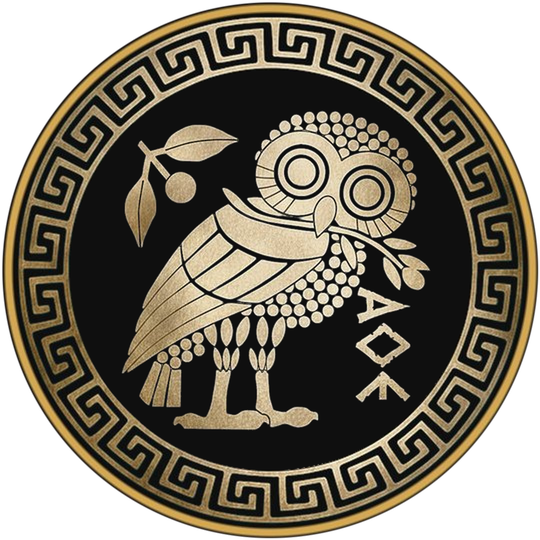
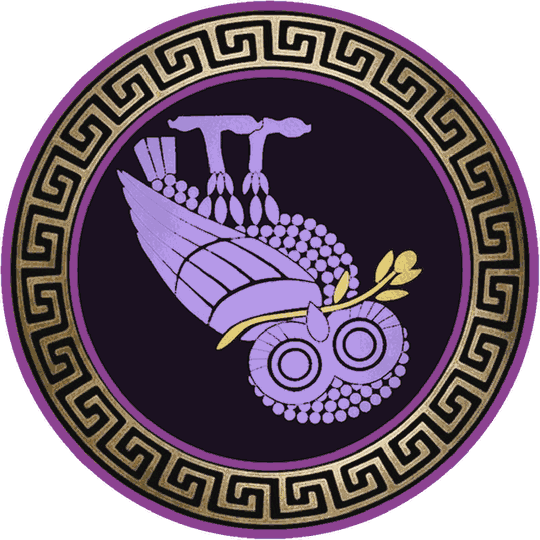
feat(signature): replace signature owl with Metacognitive Owl and point footer link to Intellectual Resistance: Dose 01

diff --git a/static/ithelp-logo-sig-research.html b/static/ithelp-logo-sig-research.html
@@ -25,8 +25,8 @@
                     <tbody>
                         <tr>
                             <td width="142" valign="middle" bgcolor="#111827" style="width:142px; padding:0; vertical-align:middle; background-color:#111827;">
-                                <a href="https://dnstool.it-help.tech" style="text-decoration:none; display:block;">
-                                    <img src="https://www.it-help.tech/images/owl-signature.png" width="130" height="130" alt="Owl of Athena" style="display:block; border:0; outline:0;" />
+                                <a href="https://intellectualresistance.com/dose/01" style="text-decoration:none; display:block;">
+                                    <img src="https://www.it-help.tech/images/owl-signature-meta.png" width="130" height="130" alt="Metacognitive Owl" style="display:block; border:0; outline:0;" />
                                 </a>
                             </td>
                             <td width="1" bgcolor="#3d3526" style="width:1px; background-color:rgba(200,168,120,0.25); font-size:0; line-height:0;">&nbsp;</td>
@@ -57,9 +57,7 @@
                                     <span style="color:#374151;">&nbsp;|&nbsp;</span>
                                     <a href="https://dnstool.it-help.tech" style="color:#c8a878; text-decoration:none;">DNS Tool</a>
                                     <span style="color:#374151;">&nbsp;|&nbsp;</span>
-                                    <a href="https://calibrationscope.com" style="color:#c8a878; text-decoration:none;">Calibration Scope</a>
-                                    <span style="color:#374151;">&nbsp;|&nbsp;</span>
-                                    <a href="https://intellectualresistance.com" style="color:#c8a878; text-decoration:none;">Intellectual Resistance</a>
+                                    <a href="https://intellectualresistance.com/dose/01" style="color:#c8a878; text-decoration:none;">Intellectual Resistance: Dose 01</a>
                                 </div>
                             </td>
                         </tr>

diff --git a/content/signature.md b/content/signature.md
@@ -25,7 +25,7 @@ toc = false
 <tbody>
 <tr>
 <td width="142" valign="middle" class="sig-avatar-cell">
-<a href="https://dnstool.it-help.tech" class="sig-avatar-link"><img src="/images/owl-signature.png" width="130" height="130" alt="Owl of Athena" class="sig-avatar-img" /></a>
+<a href="https://intellectualresistance.com/dose/01" class="sig-avatar-link"><img src="/images/owl-signature-meta.png" width="130" height="130" alt="Metacognitive Owl" class="sig-avatar-img" /></a>
 </td>
 <td width="1" class="sig-divider-cell">&nbsp;</td>
 <td valign="middle" class="sig-content-cell">
@@ -47,9 +47,7 @@ La Jolla, CA 92037<br>
 <span class="sig-sep">&nbsp;|&nbsp;</span>
 <a href="https://dnstool.it-help.tech" class="sig-link">DNS Tool</a>
 <span class="sig-sep">&nbsp;|&nbsp;</span>
-<a href="https://calibrationscope.com" class="sig-link">Calibration Scope</a>
-<span class="sig-sep">&nbsp;|&nbsp;</span>
-<a href="https://intellectualresistance.com" class="sig-link">Intellectual Resistance</a>
+<a href="https://intellectualresistance.com/dose/01" class="sig-link">Intellectual Resistance: Dose 01</a>
 </div>
 </td>
 </tr>
